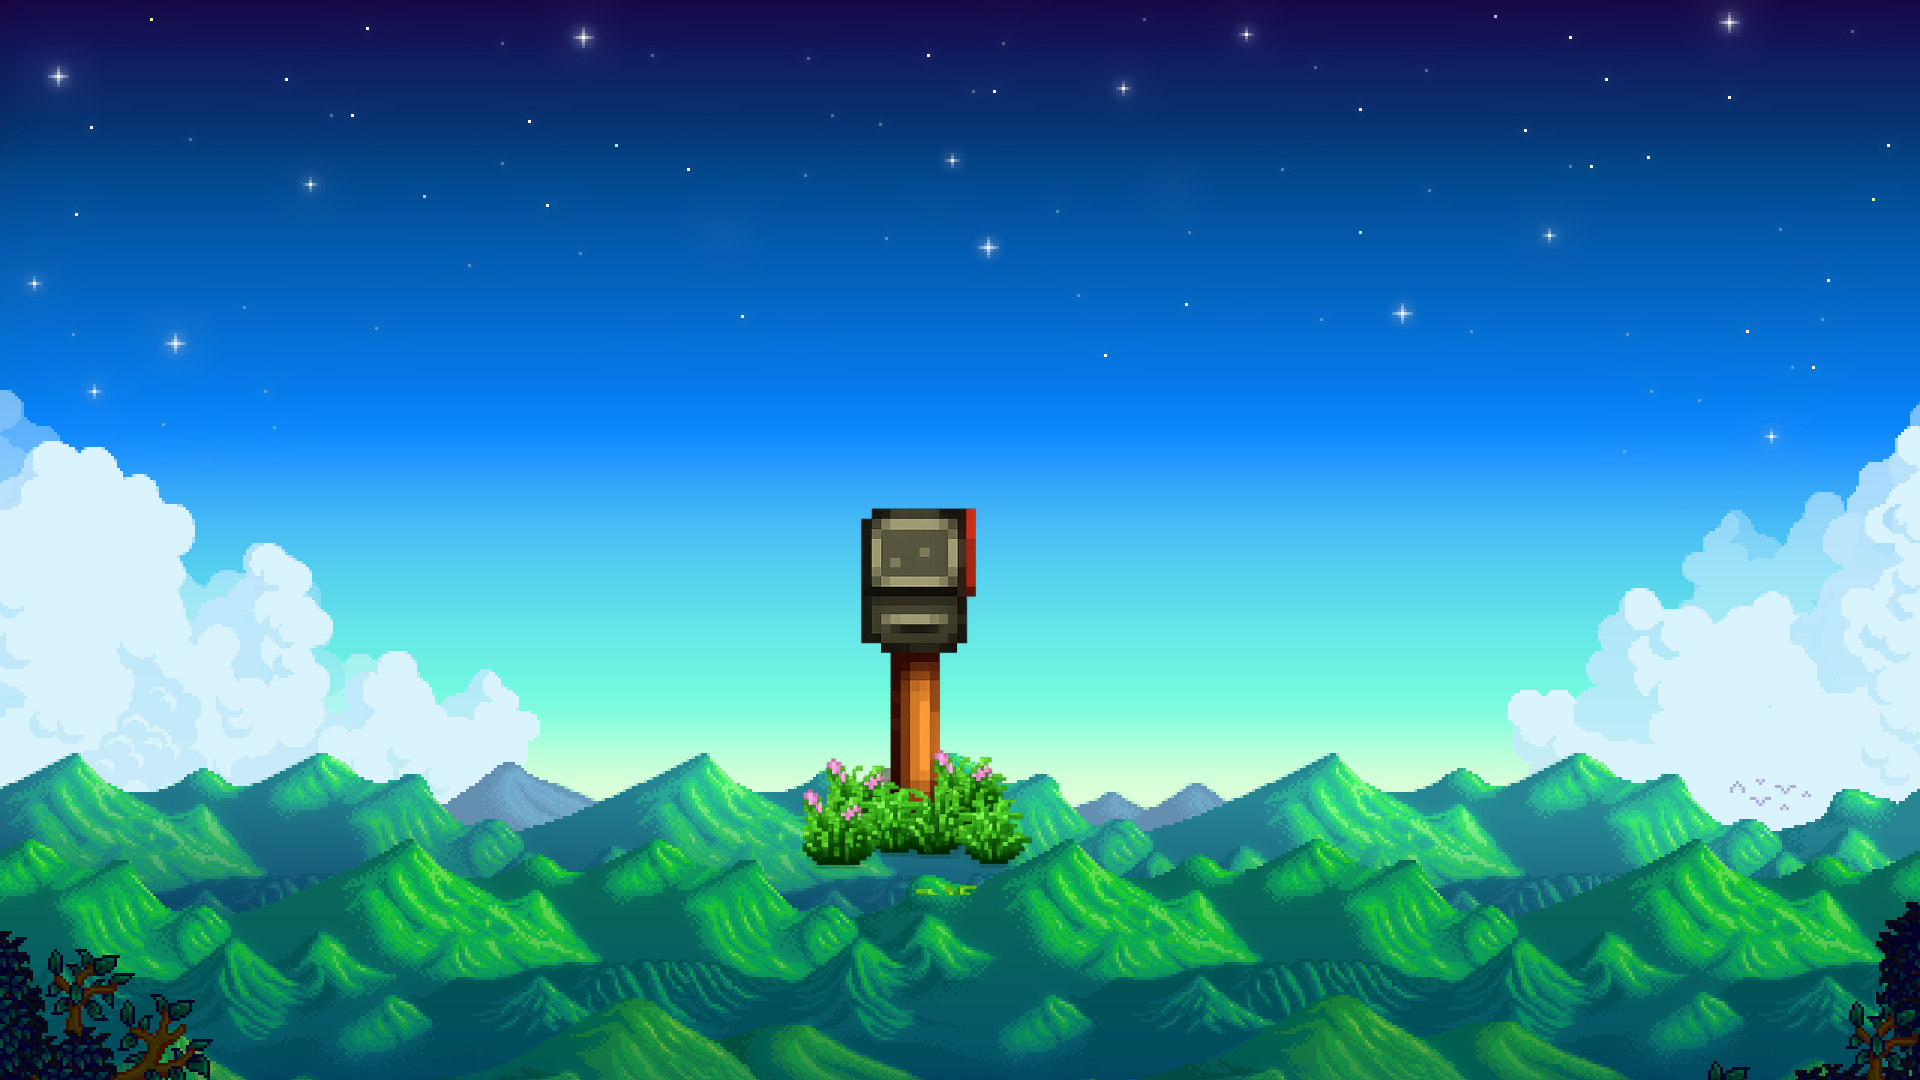
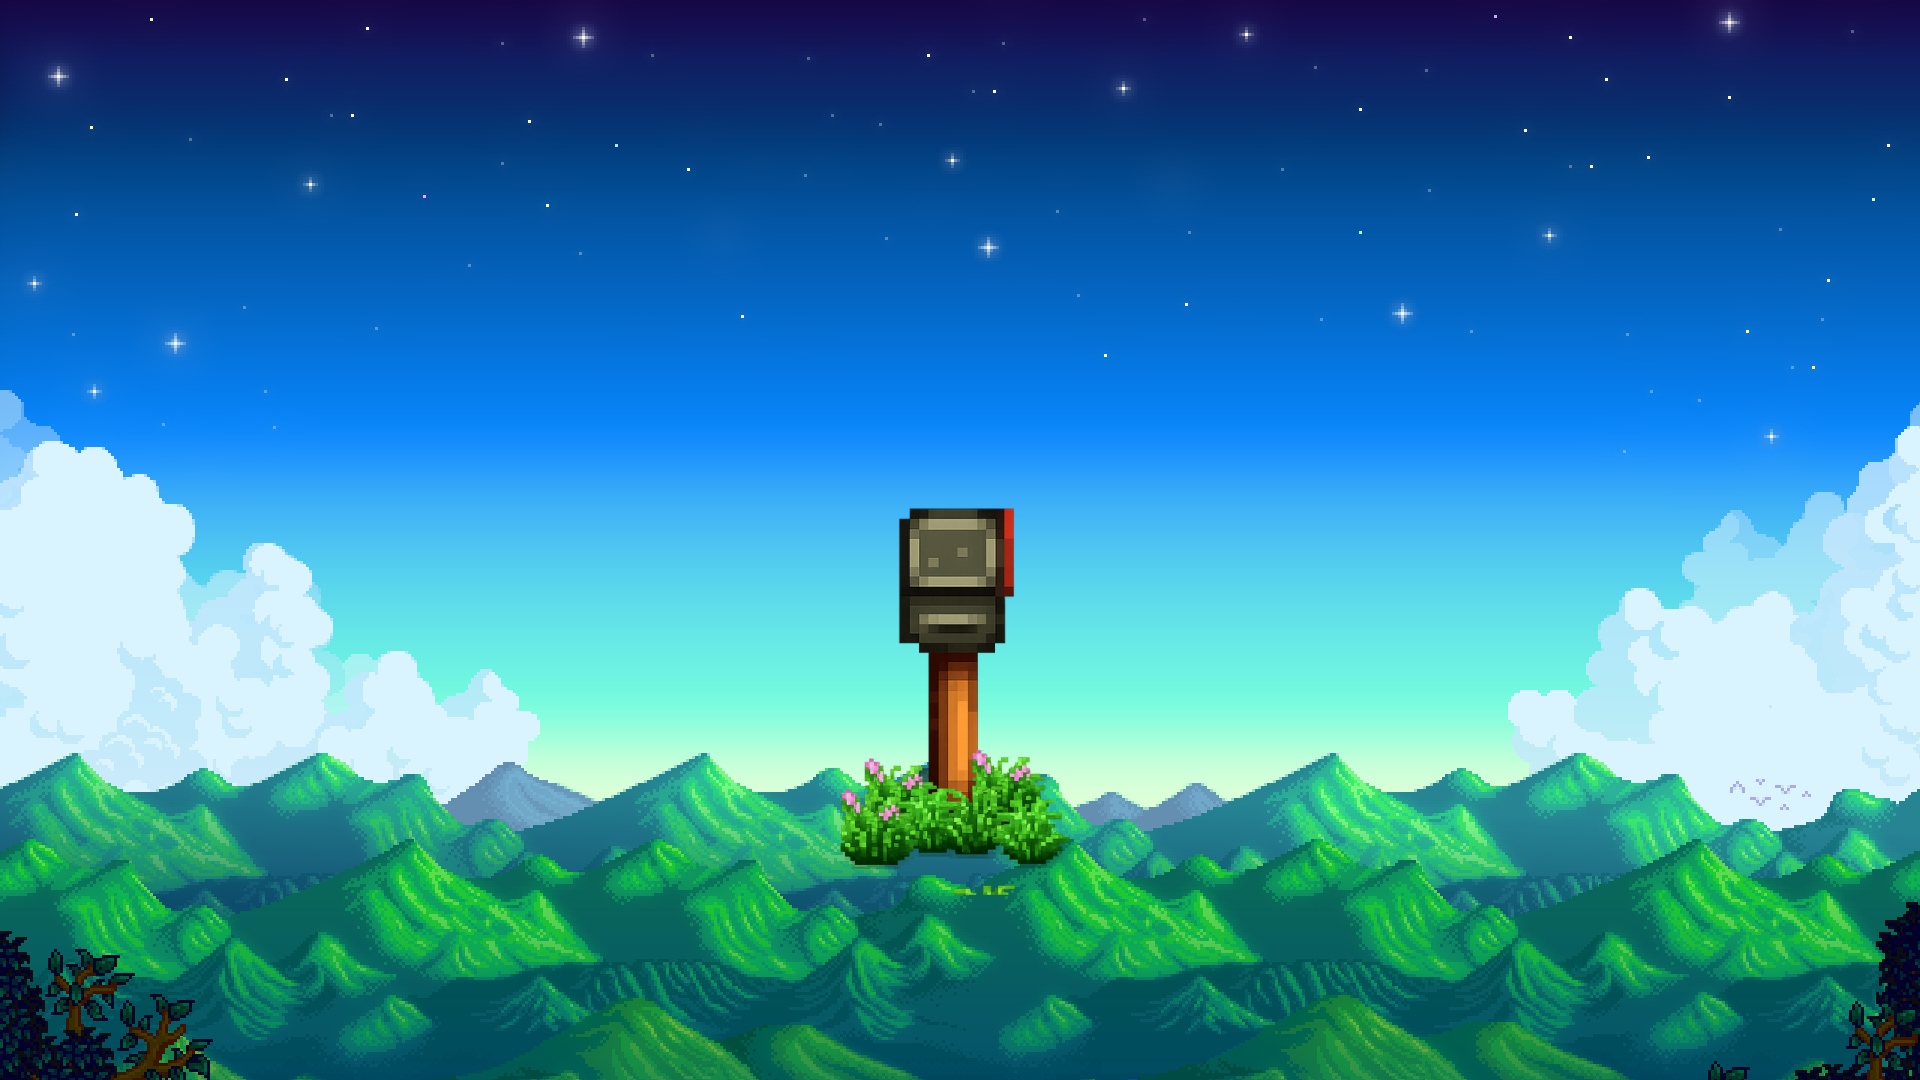
Tune mobile mail positioning and finale config

Changed region(s): [[0.4062, 0.4583, 0.5625, 0.825]]

diff --git a/script.js b/script.js
@@ -7,16 +7,23 @@
   - Ending text: CONFIG.finalMessage + CONFIG.finalMessagePosition
   - Animation intensity: CONFIG.effects + CONFIG.fireworks
 */
+
 const CONFIG = {
   mailBubblePosition: {
-    left: "47.7%",
+    left: "50%",
     top: "40%",
-    scale: 1.1
+    scale: 1.1,
+    // Mobile tweak point: adjust vertical placement of the whole bubble on phones.
+    mobileTop: "58%",
+    mobileScale: 0.96
   },
   mailIconPosition: {
     left: "50%",
     bottom: "45%",
-    scale: 1
+    scale: 1,
+    // Mobile tweak point: use top anchor (not bottom) so icon tracks bubble cleanly on short/tall phones.
+    mobileTop: "46%",
+    mobileScale: 0.96
   },
   pageAssets: [
     ["assets/page1.png"],
@@ -26,7 +33,7 @@ const CONFIG = {
   ],
   finalMessage: "Happy 4 Years Love!",
   finalMessagePosition: {
-    left: "47.5%",
+    left: "50%",
     top: "25%",
     scale: 1,
     align: "center"
@@ -134,9 +141,13 @@ document.addEventListener("DOMContentLoaded", () => {
     root.style.setProperty("--mail-bubble-left", bubblePosition.left || "50%");
     root.style.setProperty("--mail-bubble-top", bubblePosition.top || "70%");
     root.style.setProperty("--mail-bubble-scale", String(bubblePosition.scale ?? 1));
+    root.style.setProperty("--mail-mobile-bubble-top", bubblePosition.mobileTop || bubblePosition.top || "58%");
+    root.style.setProperty("--mail-mobile-bubble-scale", String(bubblePosition.mobileScale ?? bubblePosition.scale ?? 1));
     root.style.setProperty("--mail-icon-left", iconPosition.left || "50%");
     root.style.setProperty("--mail-icon-bottom", iconPosition.bottom || "28%");
     root.style.setProperty("--mail-icon-scale", String(iconPosition.scale ?? 1));
+    root.style.setProperty("--mail-mobile-icon-top", iconPosition.mobileTop || "46%");
+    root.style.setProperty("--mail-mobile-icon-scale", String(iconPosition.mobileScale ?? iconPosition.scale ?? 1));
     root.style.setProperty("--finale-message-left", finalPosition.left || "50%");
     root.style.setProperty("--finale-message-top", finalPosition.top || "50%");
     root.style.setProperty("--finale-message-scale", String(finalPosition.scale ?? 1));

diff --git a/style.css b/style.css
@@ -16,6 +16,10 @@
   --mail-icon-left: 50%;
   --mail-icon-bottom: 28%;
   --mail-icon-scale: 1;
+  --mail-mobile-bubble-top: 58%;
+  --mail-mobile-bubble-scale: 0.96;
+  --mail-mobile-icon-top: 46%;
+  --mail-mobile-icon-scale: 0.96;
   --finale-message-left: 50%;
   --finale-message-top: 50%;
   --finale-message-scale: 1;
@@ -548,6 +552,23 @@ button {
   to {
     opacity: 0;
     transform: translateY(1rem) scale(0.985);
+  }
+}
+
+@media (max-width: 48rem) {
+  /* Mobile vertical tune: adjust these vars in script.js (mobileTop/mobileScale) or here for quick testing. */
+  .mail-zone {
+    left: 50%;
+    top: var(--mail-mobile-bubble-top);
+    transform: translate(-50%, -50%) scale(var(--mail-mobile-bubble-scale));
+  }
+
+  /* Mobile uses top anchor to match bubble anchoring and avoid top/bottom mixing. */
+  .mail-icon {
+    left: 50%;
+    top: var(--mail-mobile-icon-top);
+    bottom: auto;
+    transform: translate(-50%, -50%) scale(var(--mail-mobile-icon-scale));
   }
 }
 
